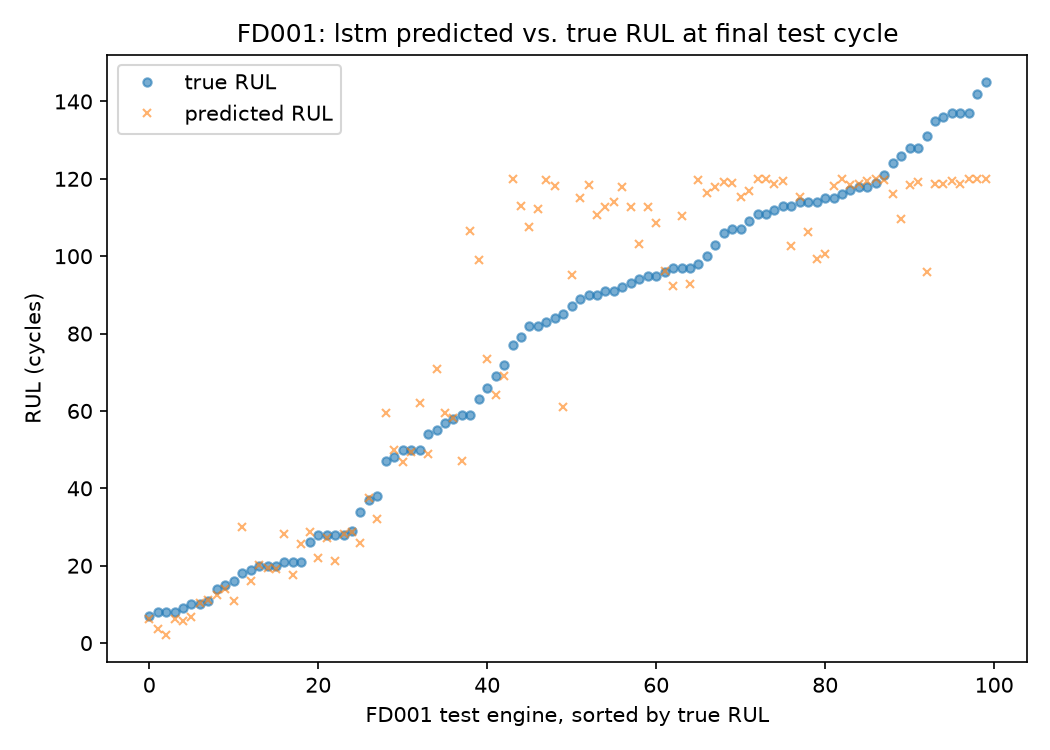
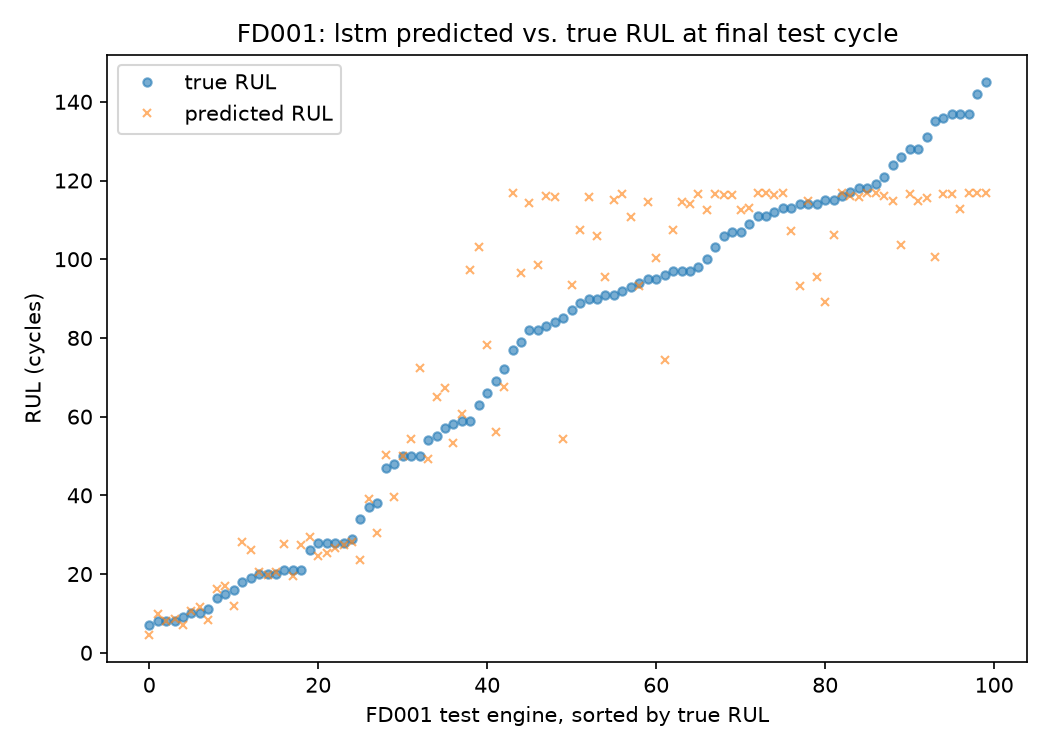
Verify --all path, document LSTM determinism limit
--all confirmed working: all 16 metric rows, headline_mean, and the
late-side reduction figure all generate correctly across datasets.
Thread-pinning didn't close the LSTM's remaining run-to-run RMSE
variance either, so reverted it and documented the ~0.5-1.0 drift as
a known limitation instead of chasing it further.

Claude-Session: https://claude.ai/code/session_01CCHeKQkvhfDLHRSxkKeWi9

diff --git a/src/models.py b/src/models.py
@@ -23,6 +23,14 @@ from src.load import SENSOR_COLS
 # cost, so seed=42 means what CLAUDE.md says it should mean for the LSTM too.
 tf.config.experimental.enable_op_determinism()
 
+# Measured: FD001 LSTM test RMSE still varies run to run even with the
+# above (15.50 / 14.79), and pinning intra/inter-op thread count to 1
+# didn't close the gap either (15.77 / 15.35) -- some remaining op in this
+# TF/Keras version pair isn't going through a deterministic path regardless
+# (see docs/Log.md). Not chasing further: not a required output, and the
+# thread pin was reverted since it cost training speed for no measured
+# benefit. LSTM RMSE should be read as +/- ~0.5-1.0 run to run, not exact.
+
 SEED = 42
 
 # cycle, operational settings, and the regime label aren't sensors, so the
